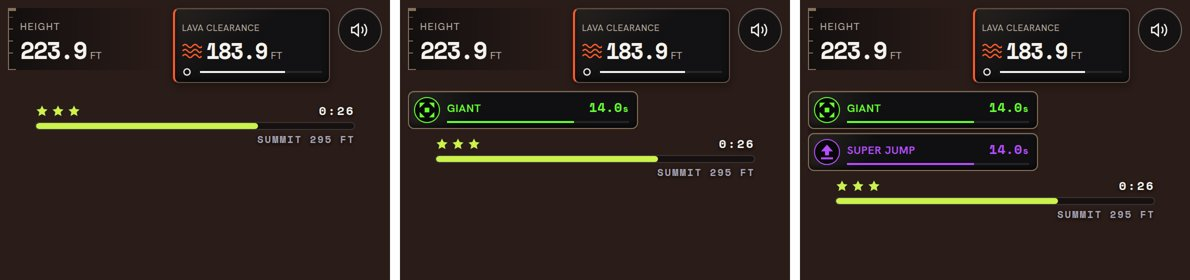
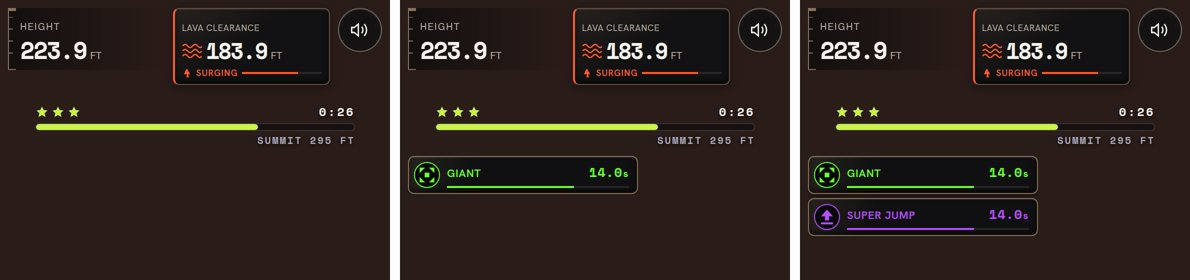
Level HUD: stars and progress first, power-up timers below them
The goal bar renders inside ExpeditionHud's grid (new goal prop) under the
readouts; active power-ups move to the next row. Replaces the measured
offset from the previous commit.

Claude-Session: https://claude.ai/code/session_01Skn7dUCDkkCZUXfd55KZDb

diff --git a/app/mobile/src/components/levels/LevelRun.tsx b/app/mobile/src/components/levels/LevelRun.tsx
@@ -1,4 +1,4 @@
-import { useCallback, useEffect, useLayoutEffect, useRef, useState } from "react";
+import { useCallback, useEffect, useRef } from "react";
 
 import { buildFreeTower } from "@app/game/freeStack";
 import { useClimb } from "@app/game/useClimb";
@@ -202,6 +202,18 @@ export function LevelRun({
         runId={runId}
         topInset={safeArea.top}
         leftInset={safeArea.left}
+        goal={
+          phase === "climb" || phase === "countdown" ? (
+            <GoalBar
+              peakFt={state.players[0]?.peakY ?? 0}
+              goalFt={goalFt}
+              elapsedMs={state.raceSeconds * 1000}
+              pars={pars}
+              practice={practice}
+              bestFailFt={bestFailFt}
+            />
+          ) : null
+        }
         rightInset={safeArea.right}
         backControl={
           <button
@@ -217,17 +229,6 @@ export function LevelRun({
         }
       />
 
-      {(phase === "climb" || phase === "countdown") && (
-        <GoalBar
-          topInset={safeArea.top}
-          peakFt={state.players[0]?.peakY ?? 0}
-          goalFt={goalFt}
-          elapsedMs={state.raceSeconds * 1000}
-          pars={pars}
-          practice={practice}
-          bestFailFt={bestFailFt}
-        />
-      )}
 
       {phase === "countdown" && (
         <Overlay>
@@ -289,49 +290,11 @@ export function LevelRun({
   );
 }
 
-/** The goal bar's resting offset below the safe area, px. */
-export const GOAL_BAR_OFFSET = 104;
-/** Space kept between the HUD (with its power-up timers) and the goal bar, px. */
-export const GOAL_BAR_HUD_GAP = 8;
-
-/**
- * Where the goal bar sits: its resting place, or just under the HUD when the
- * HUD grows past it (an active power-up's timer stacks under the readouts).
- */
-export function goalBarTop(topInset: number, hudBottom: number | null): number {
-  const rest = topInset + GOAL_BAR_OFFSET;
-  return hudBottom === null ? rest : Math.max(rest, Math.ceil(hudBottom) + GOAL_BAR_HUD_GAP);
-}
-
-/**
- * The HUD's bottom edge within the goal bar's container, tracked as it grows
- * and shrinks; null until measured (or with no HUD beside the bar).
- */
-function useHudBottom(ref: React.RefObject<HTMLDivElement | null>): number | null {
-  const [bottom, setBottom] = useState<number | null>(null);
-  useLayoutEffect(() => {
-    const parent = ref.current?.parentElement;
-    const hud = parent?.querySelector<HTMLElement>(".exp-hud");
-    if (!parent || !hud) return undefined;
-    const measure = () => {
-      const b = hud.getBoundingClientRect().bottom - parent.getBoundingClientRect().top;
-      setBottom((prev) => (prev === b ? prev : b));
-    };
-    measure();
-    if (typeof ResizeObserver === "undefined") return undefined;
-    const ro = new ResizeObserver(measure);
-    ro.observe(hud);
-    return () => ro.disconnect();
-  }, [ref]);
-  return bottom;
-}
-
 /**
  * Progress to the summit, with the stars still on offer: nobody reads a timer
  * while dodging lava, so the stars drop off the bar as each par passes (§4).
  */
 export function GoalBar({
-  topInset,
   peakFt,
   goalFt,
   elapsedMs,
@@ -339,7 +302,6 @@ export function GoalBar({
   practice,
   bestFailFt = null,
 }: {
-  topInset: number;
   peakFt: number;
   goalFt: number;
   elapsedMs: number;
@@ -355,15 +317,8 @@ export function GoalBar({
   const stars = starsForTime(elapsedMs, pars);
   const nextDrop =
     stars === 3 ? pars.threeStarMs : stars === 2 ? pars.twoStarMs : stars === 1 ? pars.oneStarMs : null;
-  const ref = useRef<HTMLDivElement>(null);
-  const hudBottom = useHudBottom(ref);
   return (
-    <div
-      ref={ref}
-      data-goal-bar
-      className="pointer-events-none absolute left-1/2 z-20 w-[min(84vw,320px)] -translate-x-1/2"
-      style={{ top: goalBarTop(topInset, hudBottom) }}
-    >
+    <div data-goal-bar className="pointer-events-none w-full">
       <div className="flex items-center justify-between gap-2 font-mono text-label font-bold uppercase tracking-label text-text-primary [text-shadow:0_1px_3px_rgba(0,0,0,0.9)]">
         {practice ? <span className="text-text-secondary">Practice</span> : <StarRow count={stars} size={14} />}
         <span className="tabular-nums">

diff --git a/app/tests/components/mobileGoalBar.test.tsx b/app/tests/components/mobileGoalBar.test.tsx
@@ -9,7 +9,9 @@ import { act } from "react";
 import { createRoot, type Root } from "react-dom/client";
 import { afterEach, beforeEach, describe, expect, it } from "vitest";
 
-import { GOAL_BAR_HUD_GAP, GOAL_BAR_OFFSET, GoalBar, goalBarTop } from "../../mobile/src/components/levels/LevelRun";
+import { GoalBar } from "../../mobile/src/components/levels/LevelRun";
+import { ExpeditionHud } from "../../src/components/Game/ExpeditionHud";
+import type { PlayerState } from "../../src/game/types";
 
 (globalThis as Record<string, unknown>).IS_REACT_ACT_ENVIRONMENT = true;
 
@@ -32,7 +34,7 @@ const pars = { twoStarMs: 60_000, threeStarMs: 40_000, oneStarMs: null };
 function render(bestFailFt: number | null) {
   act(() =>
     root.render(
-      <GoalBar topInset={0} peakFt={20} goalFt={200} elapsedMs={1000} pars={pars} practice={false} bestFailFt={bestFailFt} />,
+      <GoalBar peakFt={20} goalFt={200} elapsedMs={1000} pars={pars} practice={false} bestFailFt={bestFailFt} />,
     ),
   );
 }
@@ -51,47 +53,42 @@ describe("GoalBar best-fail marker", () => {
   });
 });
 
-describe("GoalBar placement under the HUD", () => {
-  /** A HUD beside the bar whose bottom edge sits `bottom` px below the container's top. */
-  function renderWithHud(bottom: number | null, goalFt = 200) {
+describe("GoalBar in the HUD", () => {
+  const goal = (goalFt = 200) => (
+    <GoalBar peakFt={20} goalFt={goalFt} elapsedMs={1000} pars={pars} practice={false} />
+  );
+  function renderHud(powers: string[]) {
+    const player = { y: 50, peakY: 50, activePowerUps: powers.map((type) => ({ type, startTick: 0, durationTicks: 600 })) } as unknown as PlayerState;
     act(() =>
       root.render(
-        <>
-          {bottom !== null && <div className="exp-hud" />}
-          <GoalBar topInset={20} peakFt={20} goalFt={goalFt} elapsedMs={1000} pars={pars} practice={false} />
-        </>,
+        <ExpeditionHud
+          player={player}
+          hazardY={0}
+          tick={60}
+          lavaPhase="surge"
+          lavaPhaseProgress={0}
+          muted={false}
+          onToggleMute={() => {}}
+          announcement=""
+          runId={1}
+          goal={goal()}
+        />,
       ),
     );
   }
 
-  beforeEach(() => {
-    container.getBoundingClientRect = () => ({ top: 0, bottom: 800 }) as DOMRect;
-  });
-
-  it("drops below the HUD when an active power-up's timer makes it taller", () => {
-    const hudBottom = 240;
-    const proto = HTMLElement.prototype.getBoundingClientRect;
-    HTMLElement.prototype.getBoundingClientRect = function (this: HTMLElement) {
-      return this.classList.contains("exp-hud") ? ({ top: 20, bottom: hudBottom } as DOMRect) : proto.call(this);
-    };
-    try {
-      renderWithHud(hudBottom);
-      const bar = container.querySelector<HTMLElement>("[data-goal-bar]");
-      expect(bar?.style.top).toBe(`${hudBottom + GOAL_BAR_HUD_GAP}px`);
-    } finally {
-      HTMLElement.prototype.getBoundingClientRect = proto;
-    }
-  });
-
-  it("keeps its resting place when the HUD is short, or absent", () => {
-    expect(goalBarTop(20, 60)).toBe(20 + GOAL_BAR_OFFSET);
-    expect(goalBarTop(20, null)).toBe(20 + GOAL_BAR_OFFSET);
-    renderWithHud(null);
-    expect(container.querySelector<HTMLElement>("[data-goal-bar]")?.style.top).toBe(`${20 + GOAL_BAR_OFFSET}px`);
+  it("puts the stars and progress first, with power-up timers after them", () => {
+    renderHud(["giant", "super-jump"]);
+    const hud = container.querySelector(".exp-hud");
+    expect(hud?.hasAttribute("data-has-goal")).toBe(true);
+    const bar = container.querySelector("[data-goal-bar]");
+    const powers = container.querySelector(".exp-powers");
+    expect(bar && powers).toBeTruthy();
+    expect(bar!.compareDocumentPosition(powers!) & Node.DOCUMENT_POSITION_FOLLOWING).toBeTruthy();
   });
 
   it("shows the summit in whole feet", () => {
-    renderWithHud(null, 295.367);
+    act(() => root.render(goal(295.367)));
     expect(container.textContent).toContain("Summit 295 ");
     expect(container.textContent).not.toContain("295.367");
   });

diff --git a/app/src/components/Game/ExpeditionHud.tsx b/app/src/components/Game/ExpeditionHud.tsx
@@ -204,19 +204,22 @@ function RaceProgressInstrument({ duel }: { duel: DuelHudInfo }) {
 
 // ─────────────────────────── Main HUD ────────────────────────────────────────
 
-export function ExpeditionHud({ player, hazardY, tick, lavaPhase, lavaPhaseProgress, muted, onToggleMute, announcement, runId, topInset = 0, leftInset = 0, rightInset = 0, duel, ...utilities }: UtilitiesProps & {
+export function ExpeditionHud({ player, hazardY, tick, lavaPhase, lavaPhaseProgress, muted, onToggleMute, announcement, runId, topInset = 0, leftInset = 0, rightInset = 0, duel, goal = null, ...utilities }: UtilitiesProps & {
   player: PlayerState | undefined; hazardY: number; tick: number;
   lavaPhase: HazardPhaseName; lavaPhaseProgress: number;
   announcement: string; runId: number; topInset?: number; leftInset?: number; rightInset?: number;
   /** Optional duel-specific data. When provided, duel instruments render below the main HUD. */
   duel?: DuelHudInfo;
+  /** A level's goal bar (stars and progress): drawn under the readouts, above any power-up timers. */
+  goal?: ReactNode;
 }) {
   const hardenActive = player ? isPowerUpActive(player, "harden-lava", tick) : false;
   const style = { "--exp-top": `${topInset}px`, "--exp-left": `${leftInset}px`, "--exp-right": `${rightInset}px` } as CSSProperties;
-  return <div className="exp-hud" style={style}>
+  return <div className="exp-hud" style={style} data-has-goal={goal ? "" : undefined}>
     <HeightInstrument height={player?.y ?? 0} />
     <LavaClearanceInstrument clearance={(player?.y ?? 0) - hazardY} phase={lavaPhase} progress={lavaPhaseProgress} hardenActive={hardenActive} />
     <UtilityControls muted={muted} onToggleMute={onToggleMute} {...utilities} />
+    {goal && <div className="exp-goal">{goal}</div>}
     <ActivePowerStack player={player} tick={tick} />
     {duel && (
       <div className="exp-duel-strip">

diff --git a/app/src/components/Game/expedition.css b/app/src/components/Game/expedition.css
@@ -40,6 +40,9 @@
 .exp-utility:hover { border-color: var(--exp-ivory); }
 .exp-utility:focus-visible, .exp-touch-button:focus-visible { outline: 2px solid var(--exp-signal); outline-offset: 2px; }
 .exp-powers { grid-column: 1 / 3; grid-row: 2; display: flex; flex-direction: column; gap: 4px; width: min(100%, 230px); max-height: min(112px, 17dvh); overflow-y: auto; scrollbar-width: thin; scrollbar-color: #86715a #101012; pointer-events: auto; overscroll-behavior: contain; }
+/* A level's goal bar (stars, progress) sits under the readouts; power-up timers stack below it. */
+.exp-goal { grid-column: 1 / -1; grid-row: 2; justify-self: center; width: min(84vw, 320px); margin-top: 12px; }
+.exp-hud[data-has-goal] .exp-powers { grid-row: 3; }
 .exp-cartridge { --power-color: var(--exp-amber); display: flex; align-items: center; gap: 7px; min-height: 38px; flex-shrink: 0; padding: 4px 8px 4px 5px; border: 1px solid var(--exp-metal); border-radius: var(--exp-radius); color: var(--power-color); background: linear-gradient(110deg, #28241f, var(--exp-core) 28%); box-shadow: var(--exp-depth); }
 .exp-power-icon { display: flex; width: 26px; height: 26px; padding: 4px; flex-shrink: 0; border: 1px solid currentColor; border-radius: 50%; background: #080809; }
 .exp-power-body { flex: 1; min-width: 0; }
@@ -74,6 +77,7 @@
   .exp-clearance { grid-column: 3; padding: 8px 10px; }
   .exp-utilities { grid-column: 4; }
   .exp-powers { grid-column: 2; grid-row: 1; width: 100%; max-height: min(150px, 18dvh); }
+  .exp-hud[data-has-goal] .exp-powers { grid-row: 1; }
   .exp-height { padding-left: 20px; }
   .exp-label { font-size: 12px; }
   .exp-clearance .exp-label { font-size: 11px; }

diff --git a/app/tests/components/mobileLevelPowerUps.test.tsx b/app/tests/components/mobileLevelPowerUps.test.tsx
@@ -79,7 +79,6 @@ describe("in-run goal bar", () => {
   const bar = (elapsedMs: number, oneStarMs: number | null) =>
     renderToStaticMarkup(
       createElement(GoalBar, {
-        topInset: 0,
         peakFt: 10,
         goalFt: 100,
         elapsedMs,

diff --git a/docs/reviews/2026-09-30-result-polish/README.md b/docs/reviews/2026-09-30-result-polish/README.md
@@ -36,9 +36,10 @@ never less than the fade, so the last row can still scroll fully into view.
 ## Power-up timers over the goal bar
 
 The goal bar sat at a fixed spot under the HUD, and an active power-up's timer
-stacks into that same spot, so the stars landed on the timer. The bar now
-measures the HUD and moves below it while timers are showing (none, one, two
-below). The summit is also shown in whole feet (was "295.367").
+stacks into that same spot, so the stars landed on the timer. The goal bar now
+lives inside the HUD's grid, right under the readouts, and power-up timers
+stack below it (none, one, two below). The summit is also shown in whole feet
+(was "295.367").
 
 <img src="before-hud-power-ups.jpg" width="390" alt="Stars on top of the Giant timer">
 
